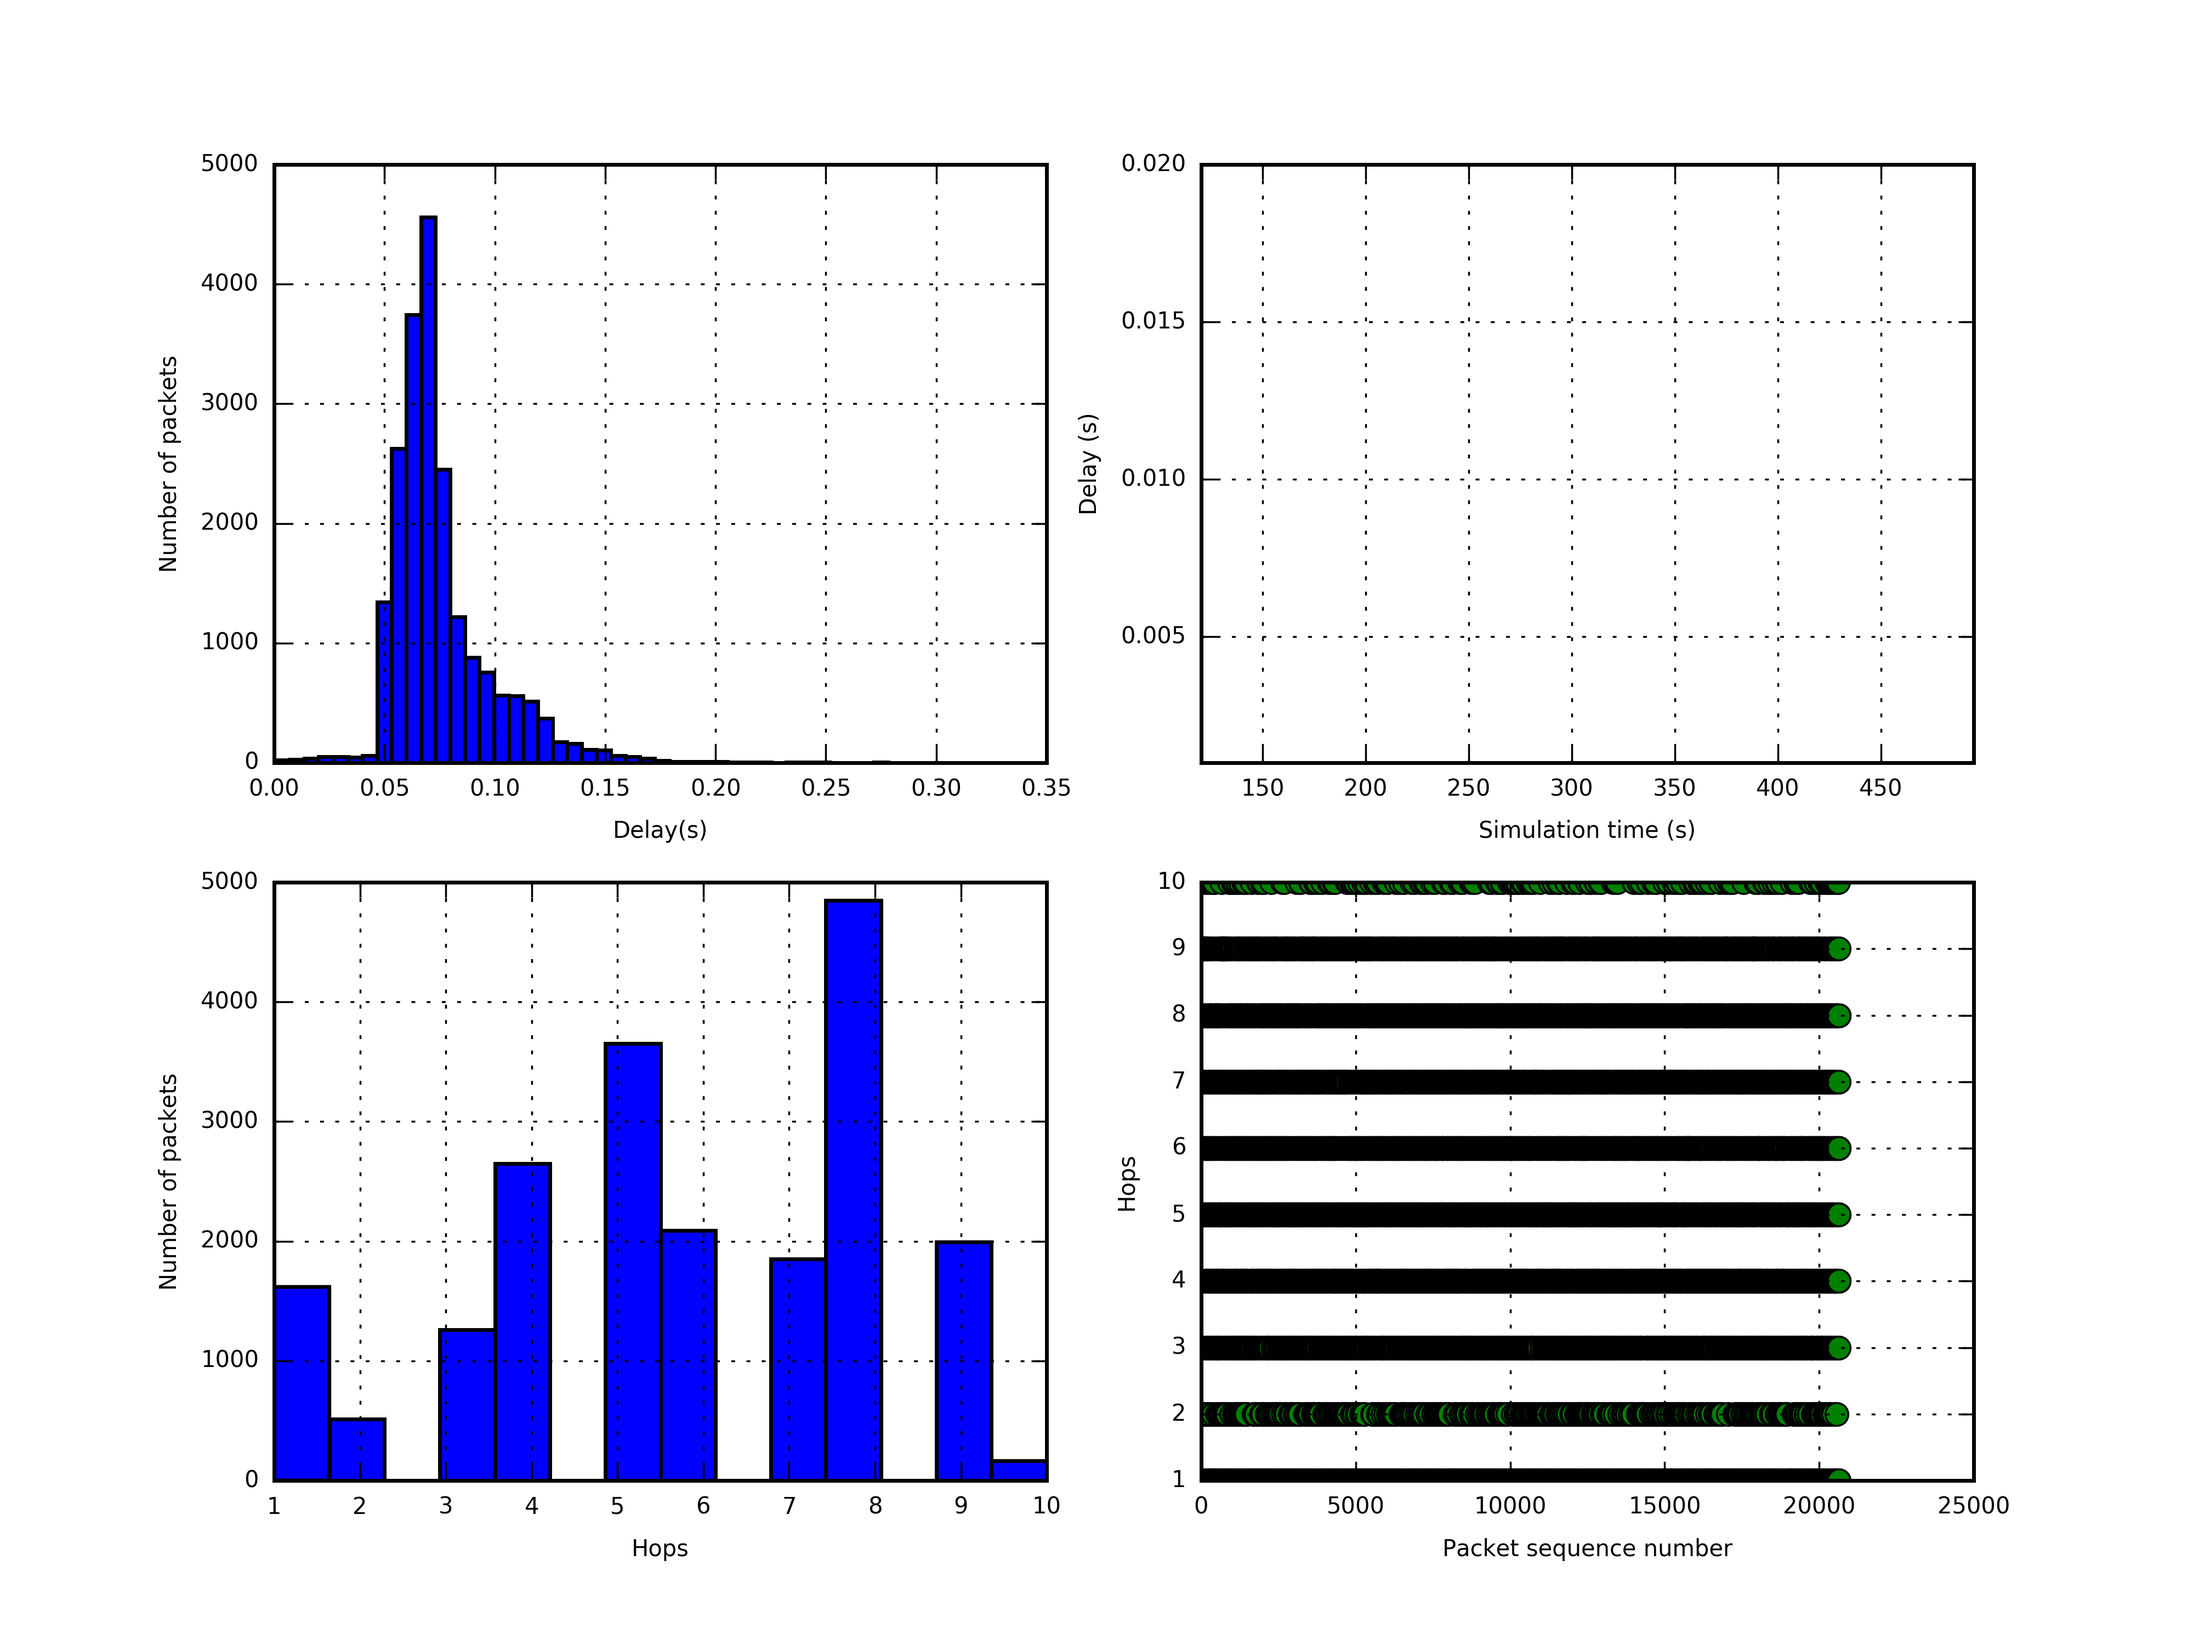
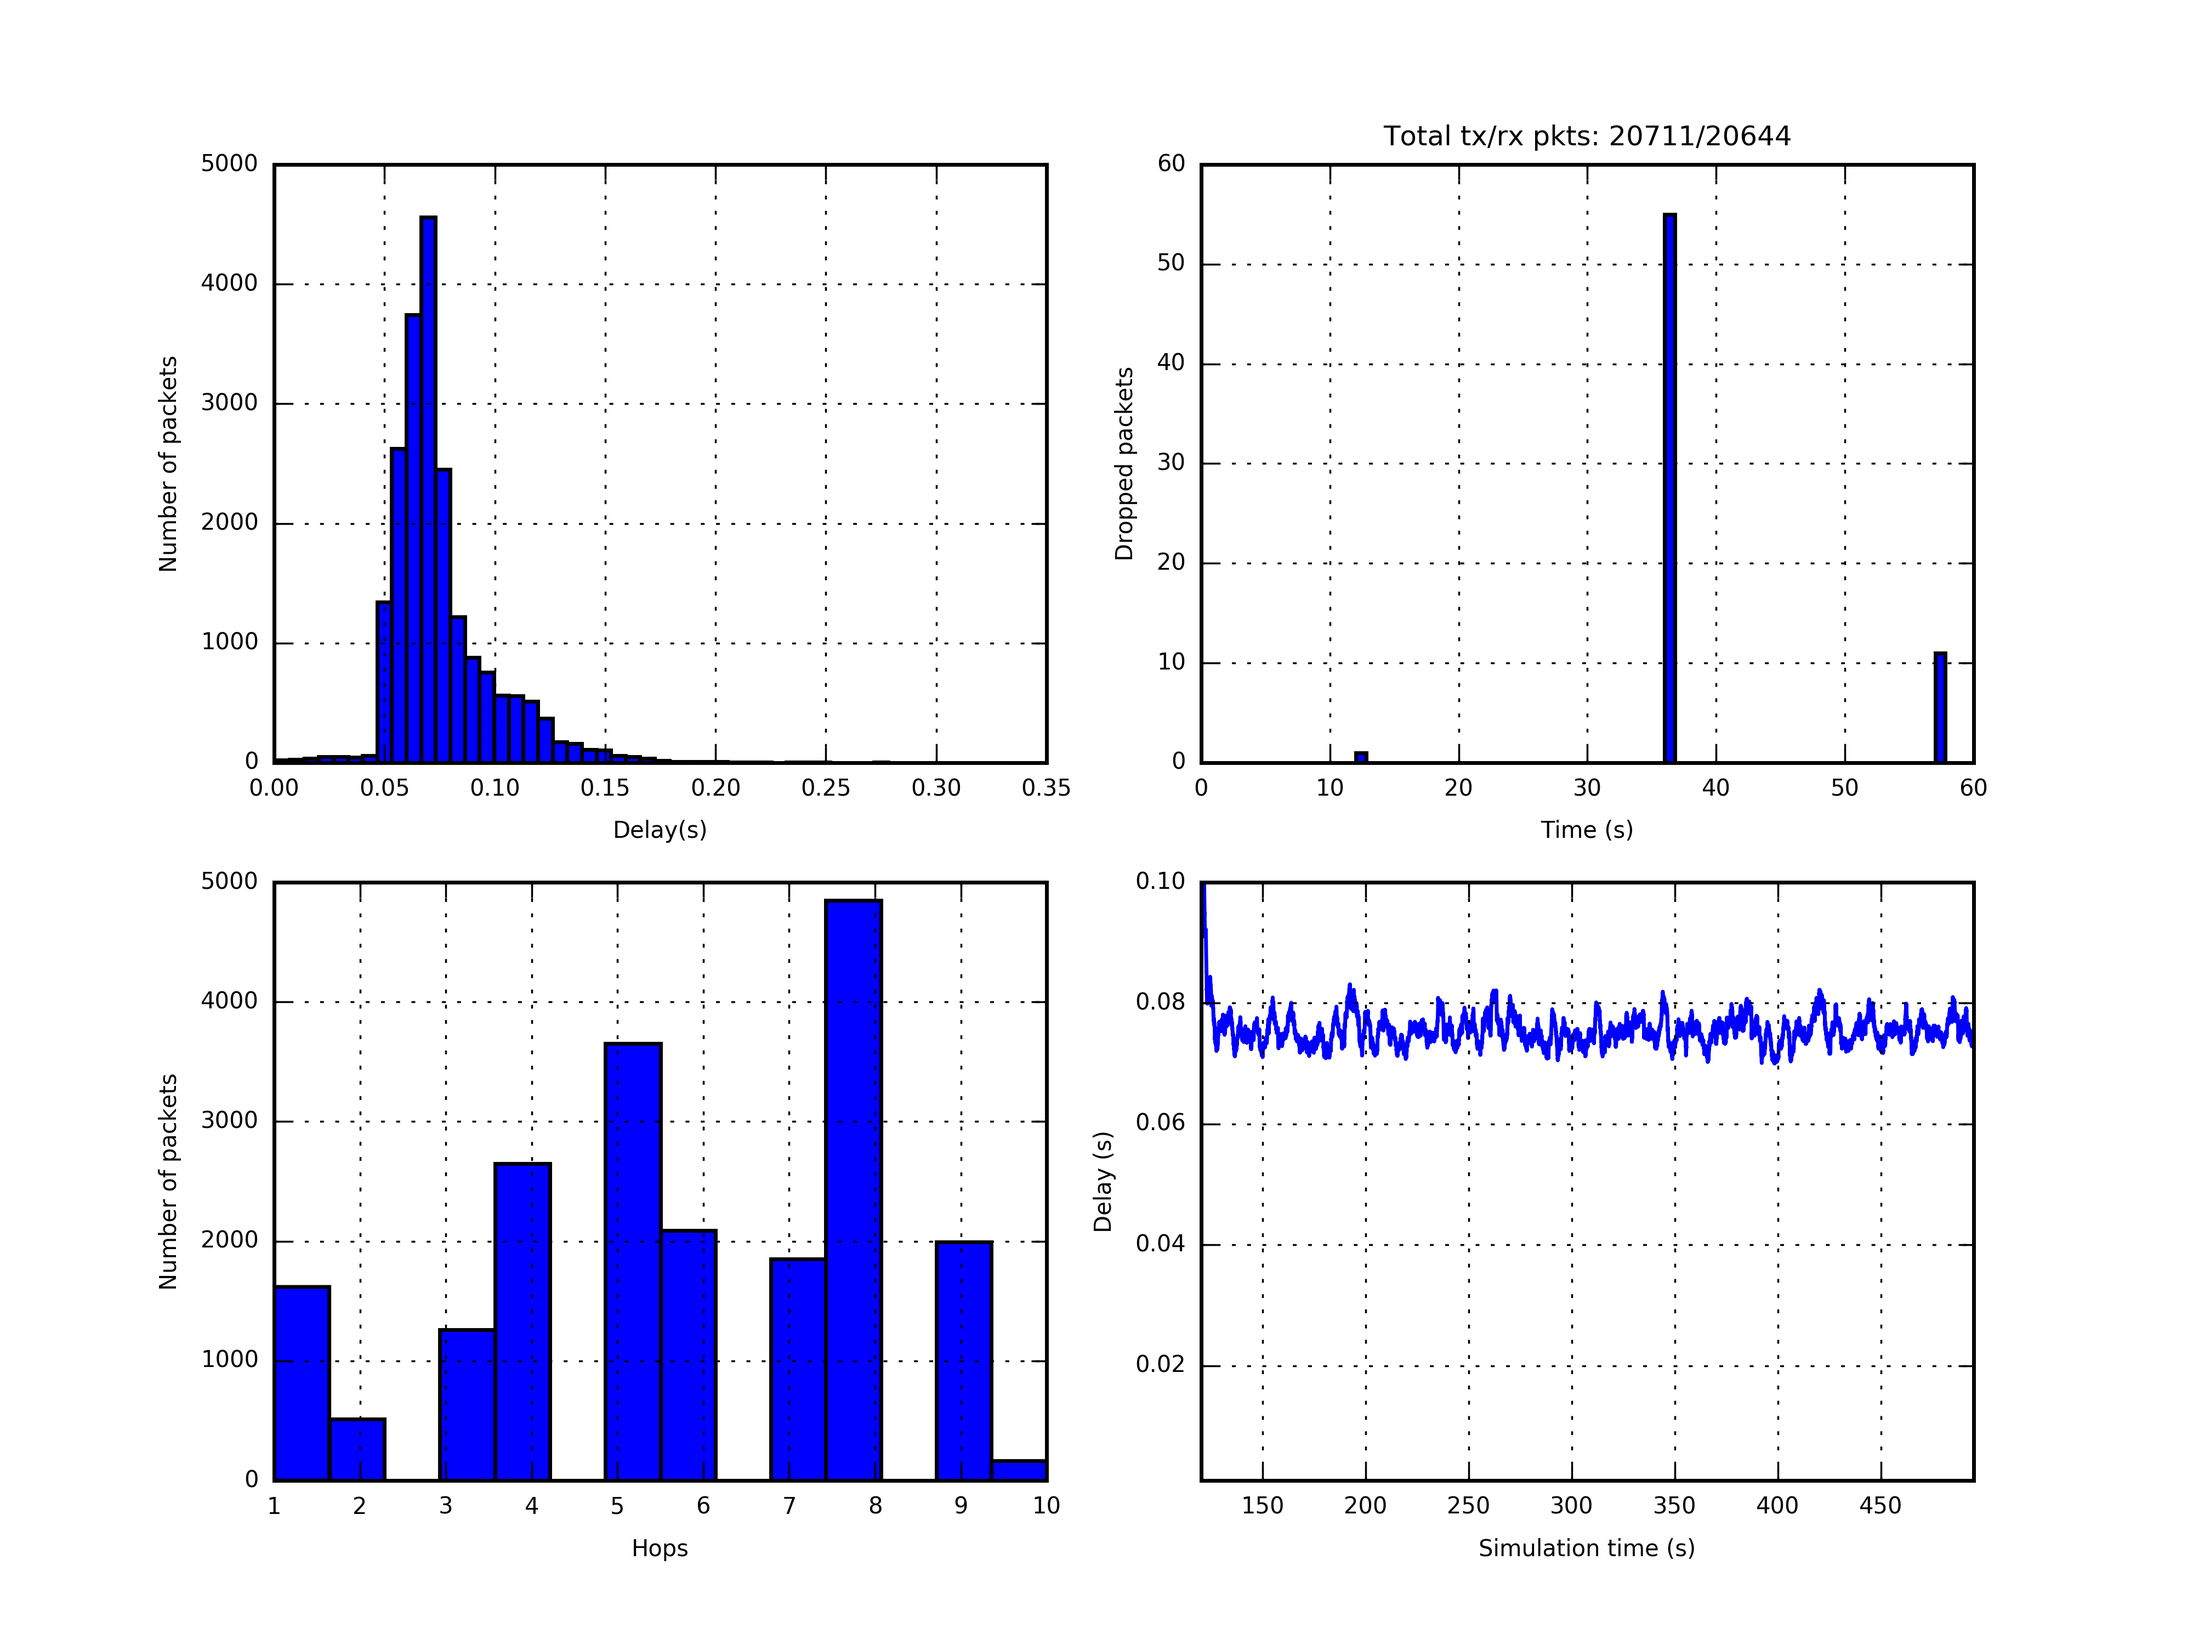
Parsing scripts now supporting pktloss. Harmonised IP and NDN graphs.

diff --git a/parser/parsendn_hpc.py b/parser/parsendn_hpc.py
@@ -27,6 +27,17 @@ import sys
 import os
 from matplotlib import rcParams
 
+
+def pktloss_conversion(rtx_array, nodes):
+    node_error = []
+    node_error = [0] * int(max(nodes))
+    for i in range(len(rtx_array)):
+        if rtx_array[i] != 0:
+            print "Found unequal zero:", rtx_array[i], "tries from node", int(nodes[i])
+            node_error[int(nodes[i])] += rtx_array[i]
+    return node_error
+
+
 rcParams['font.family'] = 'sans-serif'
 rcParams['font.sans-serif'] = ['Bitstream Vera Sans']
 rcParams['font.serif'] = ['Bitstream Vera Sans']
@@ -37,22 +48,21 @@ time, node, appid, seq, delay, delayu, rtx, hops = np.loadtxt(sys.argv[1], skipr
                                                               unpack=True)
 
 Time_d, Packets_d = np.loadtxt(sys.argv[2], skiprows=1,
-                           usecols=(0,4),
-                           unpack=True)
+                               usecols=(0, 4),
+                               unpack=True)
 tot_drop = sum(Packets_d)
-if tot_drop:
-    print "L2 packet drops!", tot_drop, "Packets were dropped"
-else:
-    
-    print "No L2 packet drops"
 
+print tot_drop, "Packets were dropped at L2."
 
 delay_filtered = []
 hops_filtered = []
 time_filtered = []
+rtx_filtered = []
+rtx_filtered_zero = []
+node_filtered = []
 idx = 0
 zero_entries = 0
-for delay_i, hop_i, time_i in zip(delay, hops, time):
+for delay_i, hop_i, time_i, rtx_i, node_i in zip(delay, hops, time, rtx, node):
     idx += 1
     if delay_i == 0:
         zero_entries += 1
@@ -60,8 +70,20 @@ for delay_i, hop_i, time_i in zip(delay, hops, time):
         delay_filtered.append(delay_i)
         hops_filtered.append(hop_i)
         time_filtered.append(time_i)
+        rtx_filtered.append(rtx_i)
+        node_filtered.append(node_i)
+
+rtx_filtered_zero = list(rtx_filtered)
+
+for i in range(len(rtx_filtered_zero)):
+    rtx_filtered_zero[i] -= 1
 
 print "Found:", zero_entries, "zero delay entries. From a total of", idx, "received packets. So", zero_entries * 100 / idx, "% of the total entries is 0."
+print sum(rtx_filtered_zero), "Times a retransmission occured."
+
+tot_trans = sum(rtx_filtered)
+tot_rec = len(rtx_filtered)
+
 
 N = 150
 cumsum, moving_aves, time_moving = [0], [], []
@@ -73,22 +95,23 @@ for i, x in enumerate(delay_filtered, 1):
         # can do stuff with moving_ave here
         moving_aves.append(moving_ave)
 
-time_moving = np.linspace(np.amin(time_filtered), np.amax(time_filtered), num=len(moving_aves))
+time_moving\
+    = np.linspace(np.amin(time_filtered), np.amax(time_filtered), num=len(moving_aves))
 
 pylab.figure(0)
 pylab.subplot(221)
 pylab.hist(delay_filtered, bins=50)
 pylab.xlabel("Delay(s)")
 pylab.ylabel("Number of packets")
-#
 pylab.grid(True)
 
 pylab.subplot(222)
-pylab.plot(time_moving, moving_aves)
-pylab.xlabel("Simulation time (s)")
-pylab.ylabel("Delay (s)")
-pylab.axis([np.amin(time_filtered), np.amax(time_filtered), 0.001, 0.02])
+pylab.bar(range(int(max(node_filtered))), pktloss_conversion(rtx_filtered_zero, node_filtered))
+pylab.xlabel("Time (s)")
+pylab.ylabel("Dropped packets")
 pylab.grid(True)
+pylab.title('Total tx/rx pkts: ' + str(int(tot_trans)) + "/" + str(int(tot_rec)))
+
 
 pylab.subplot(223)
 pylab.hist(hops_filtered, bins=14)
@@ -97,9 +120,10 @@ pylab.ylabel("Number of packets")
 pylab.grid(True)
 
 pylab.subplot(224)
-pylab.plot(hops_filtered, 'go')
-pylab.ylabel("Hops")
-pylab.xlabel("Packet sequence number")
+pylab.plot(time_moving, moving_aves)
+pylab.xlabel("Simulation time (s)")
+pylab.ylabel("Delay (s)")
+pylab.axis([np.amin(time_filtered), np.amax(time_filtered), 0.001, 0.1])
 pylab.grid(True)
 
 fig = pylab.gcf()
